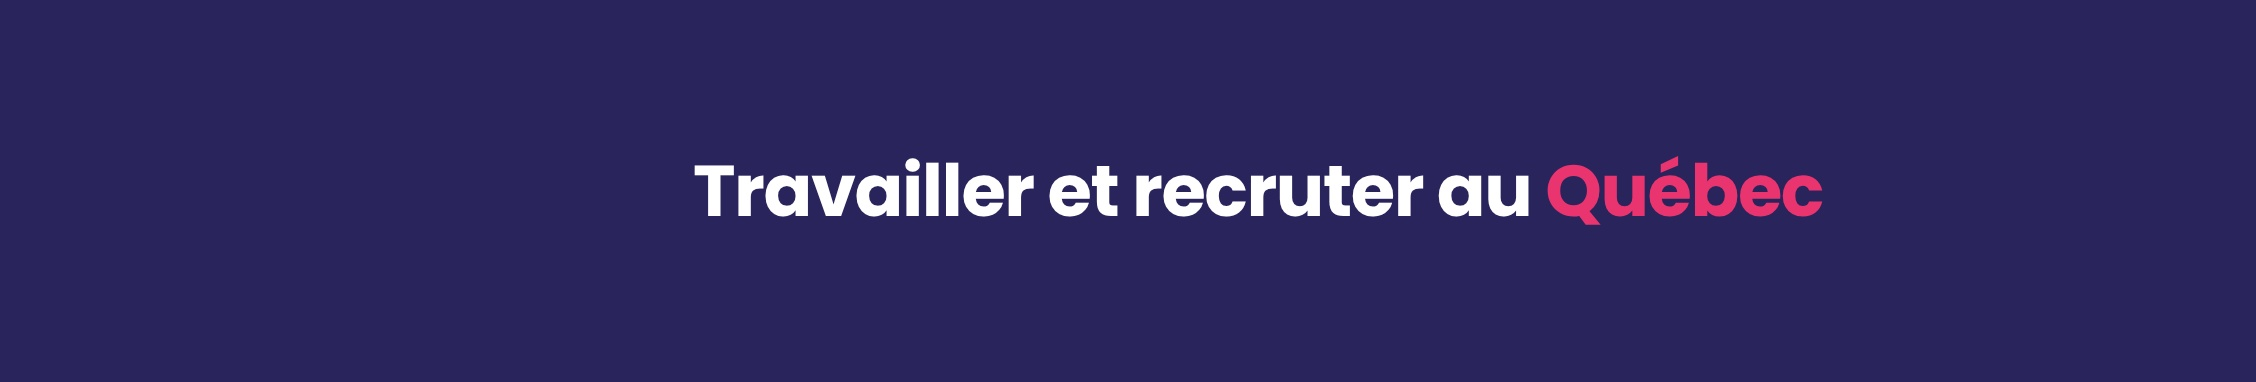
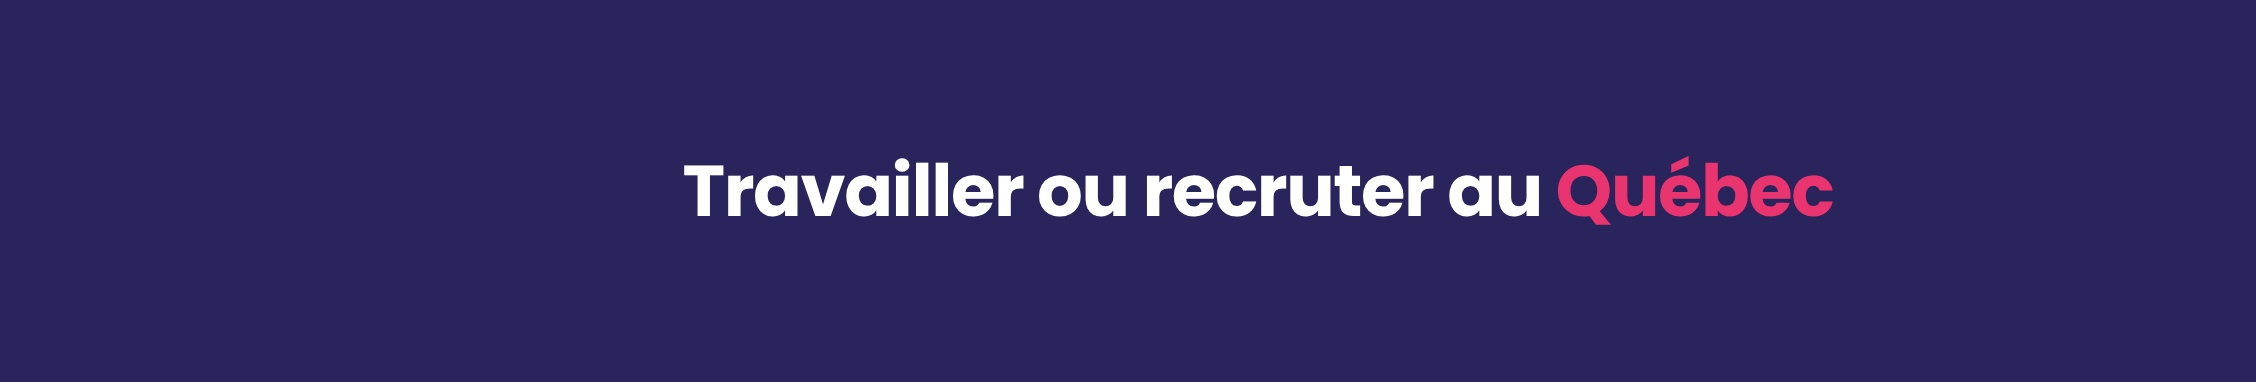
Bannières : « Travailler ou recruter au Québec »
Claude-Session: https://claude.ai/code/session_01NBGakcBRwoq7RKRswmKrSM

Changed region(s): [[0.2793, 0.4031, 0.8378, 0.6047]]

diff --git a/tools/visuels/bannieres/uni-fb.html b/tools/visuels/bannieres/uni-fb.html
@@ -2,4 +2,4 @@
 .s{width:var(--w);height:var(--h);background:#29245c;display:flex;align-items:center;justify-content:center;box-sizing:border-box}
 h1{color:#fff;font-weight:700;letter-spacing:-.02em;text-align:center}
 h1 span{color:#ea346f}
-:root{--w:1640px;--h:624px}.s{padding-bottom:130px}h1{font-size:56px}</style></head><body><div class="s"><h1>Travailler et recruter au <span>Québec</span></h1></div></body></html>
+:root{--w:1640px;--h:624px}.s{padding-bottom:130px}h1{font-size:56px}</style></head><body><div class="s"><h1>Travailler ou recruter au <span>Québec</span></h1></div></body></html>

diff --git a/tools/visuels/bannieres/uni-li.html b/tools/visuels/bannieres/uni-li.html
@@ -2,4 +2,4 @@
 .s{width:var(--w);height:var(--h);background:#29245c;display:flex;align-items:center;justify-content:center;box-sizing:border-box}
 h1{color:#fff;font-weight:700;letter-spacing:-.02em;text-align:center}
 h1 span{color:#ea346f}
-:root{--w:2256px;--h:382px}.s{padding-left:260px}h1{font-size:72px}</style></head><body><div class="s"><h1>Travailler et recruter au <span>Québec</span></h1></div></body></html>
+:root{--w:2256px;--h:382px}.s{padding-left:260px}h1{font-size:72px}</style></head><body><div class="s"><h1>Travailler ou recruter au <span>Québec</span></h1></div></body></html>
